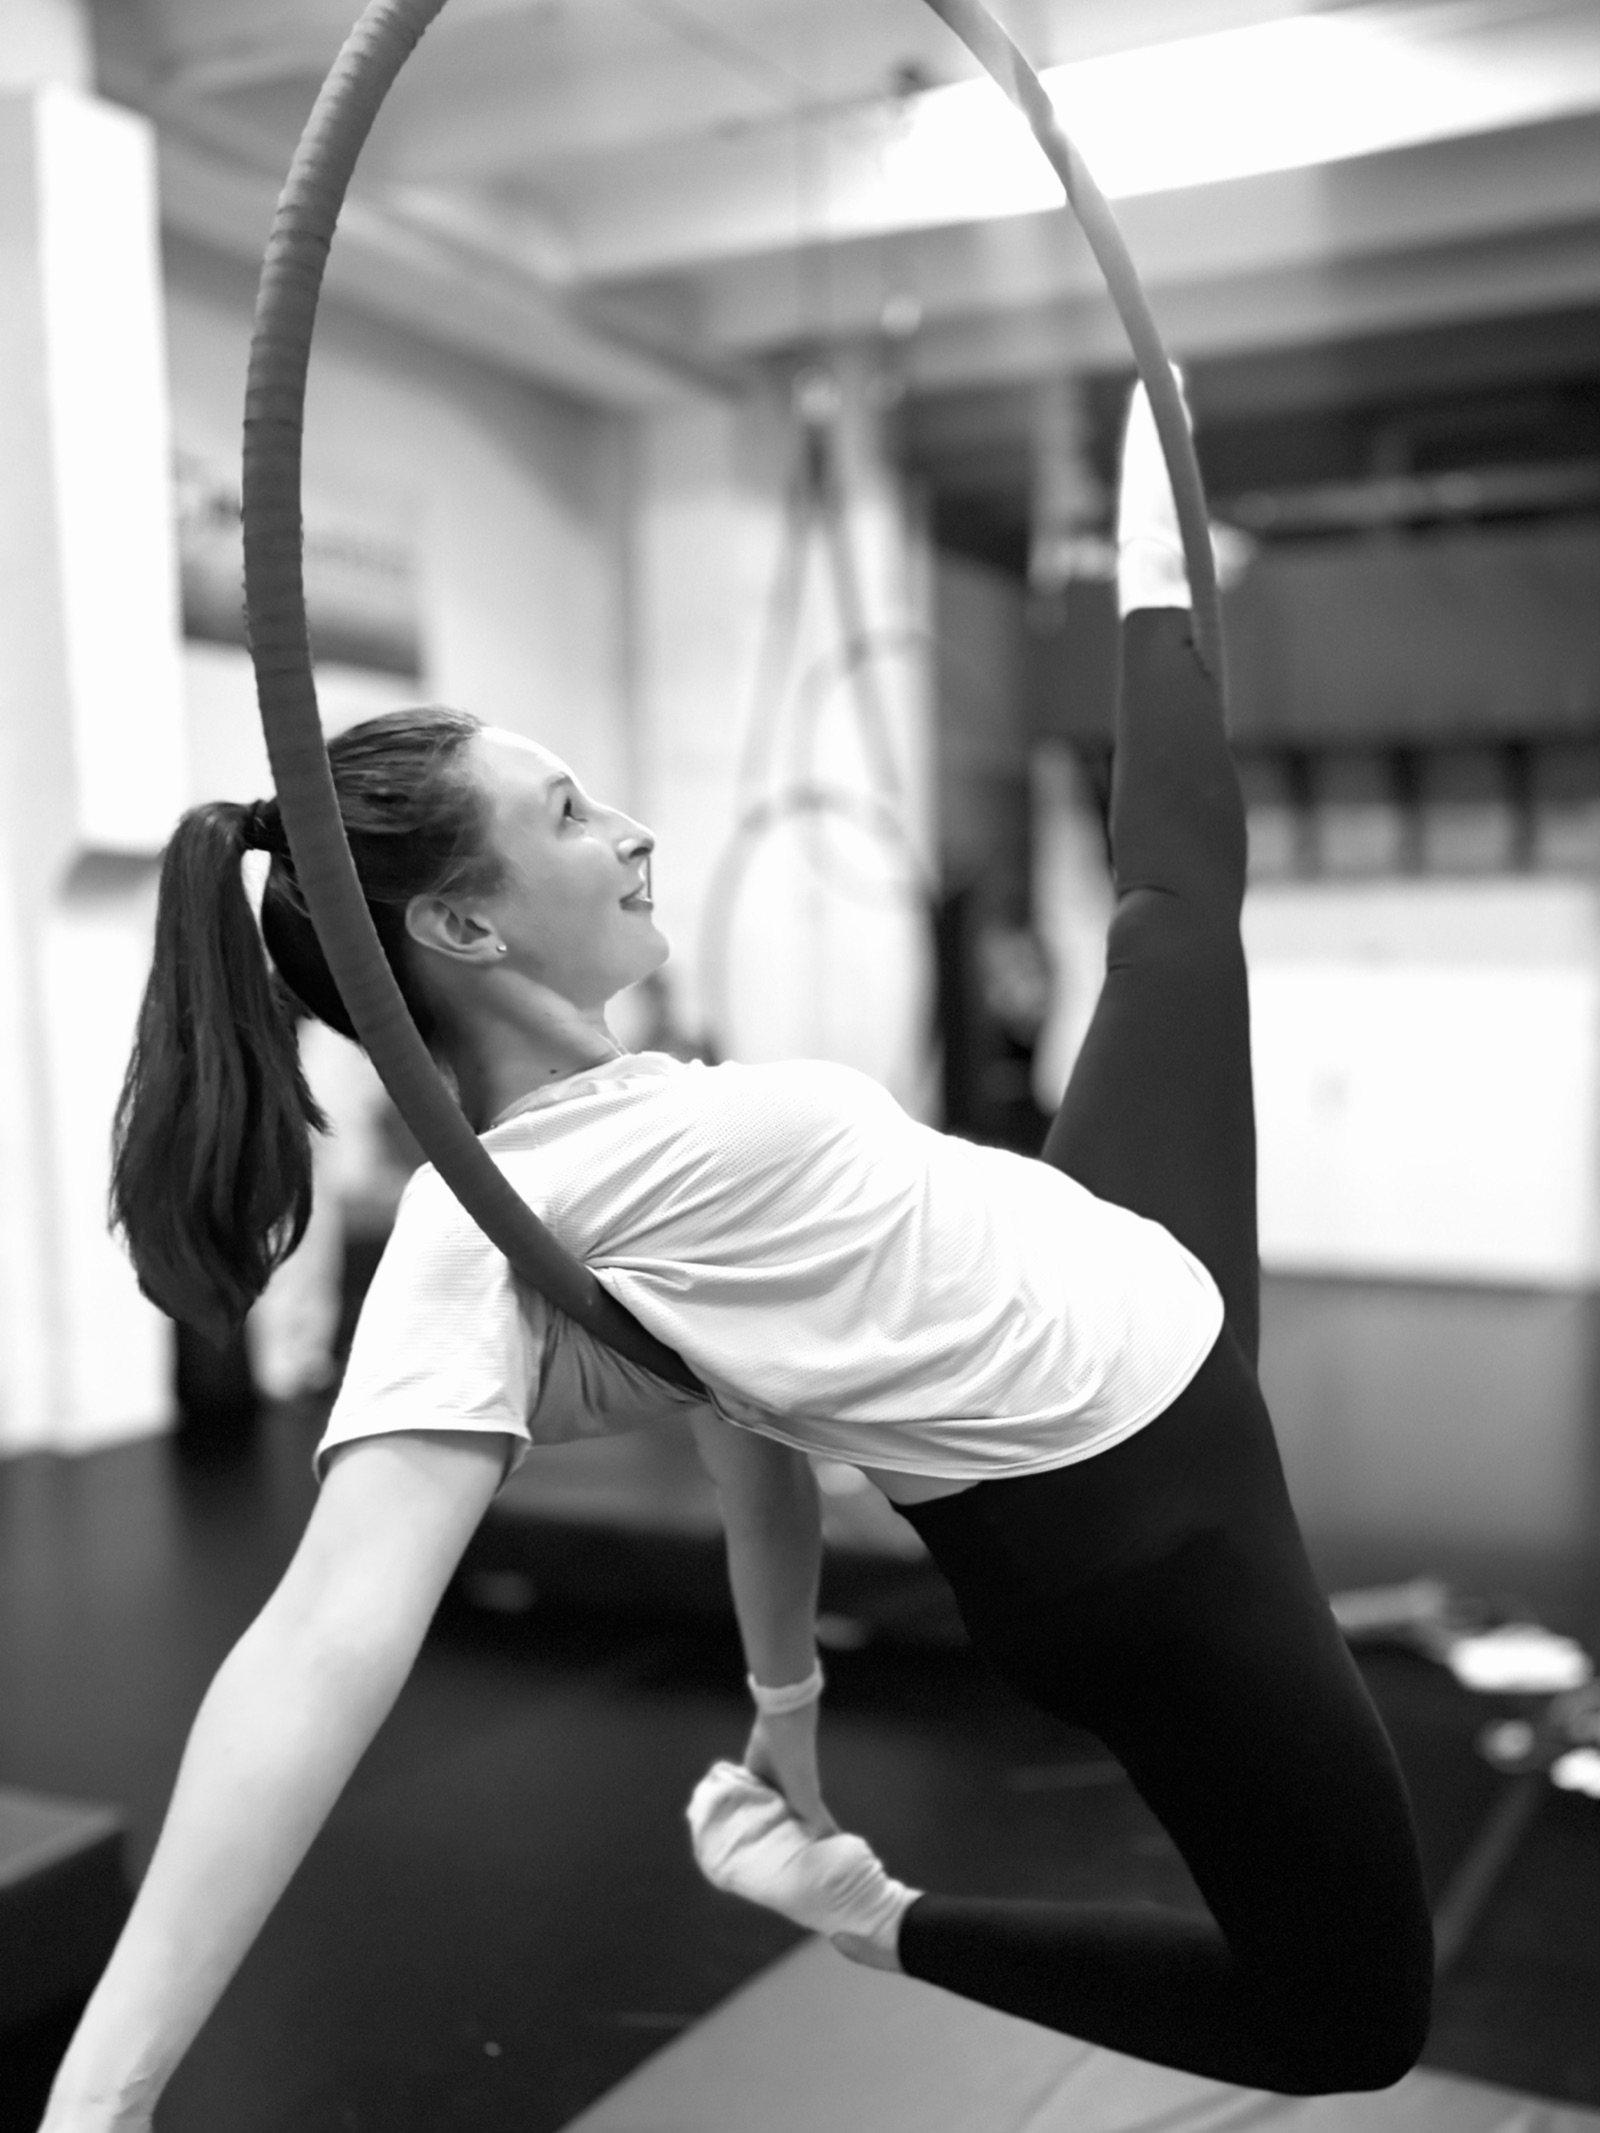
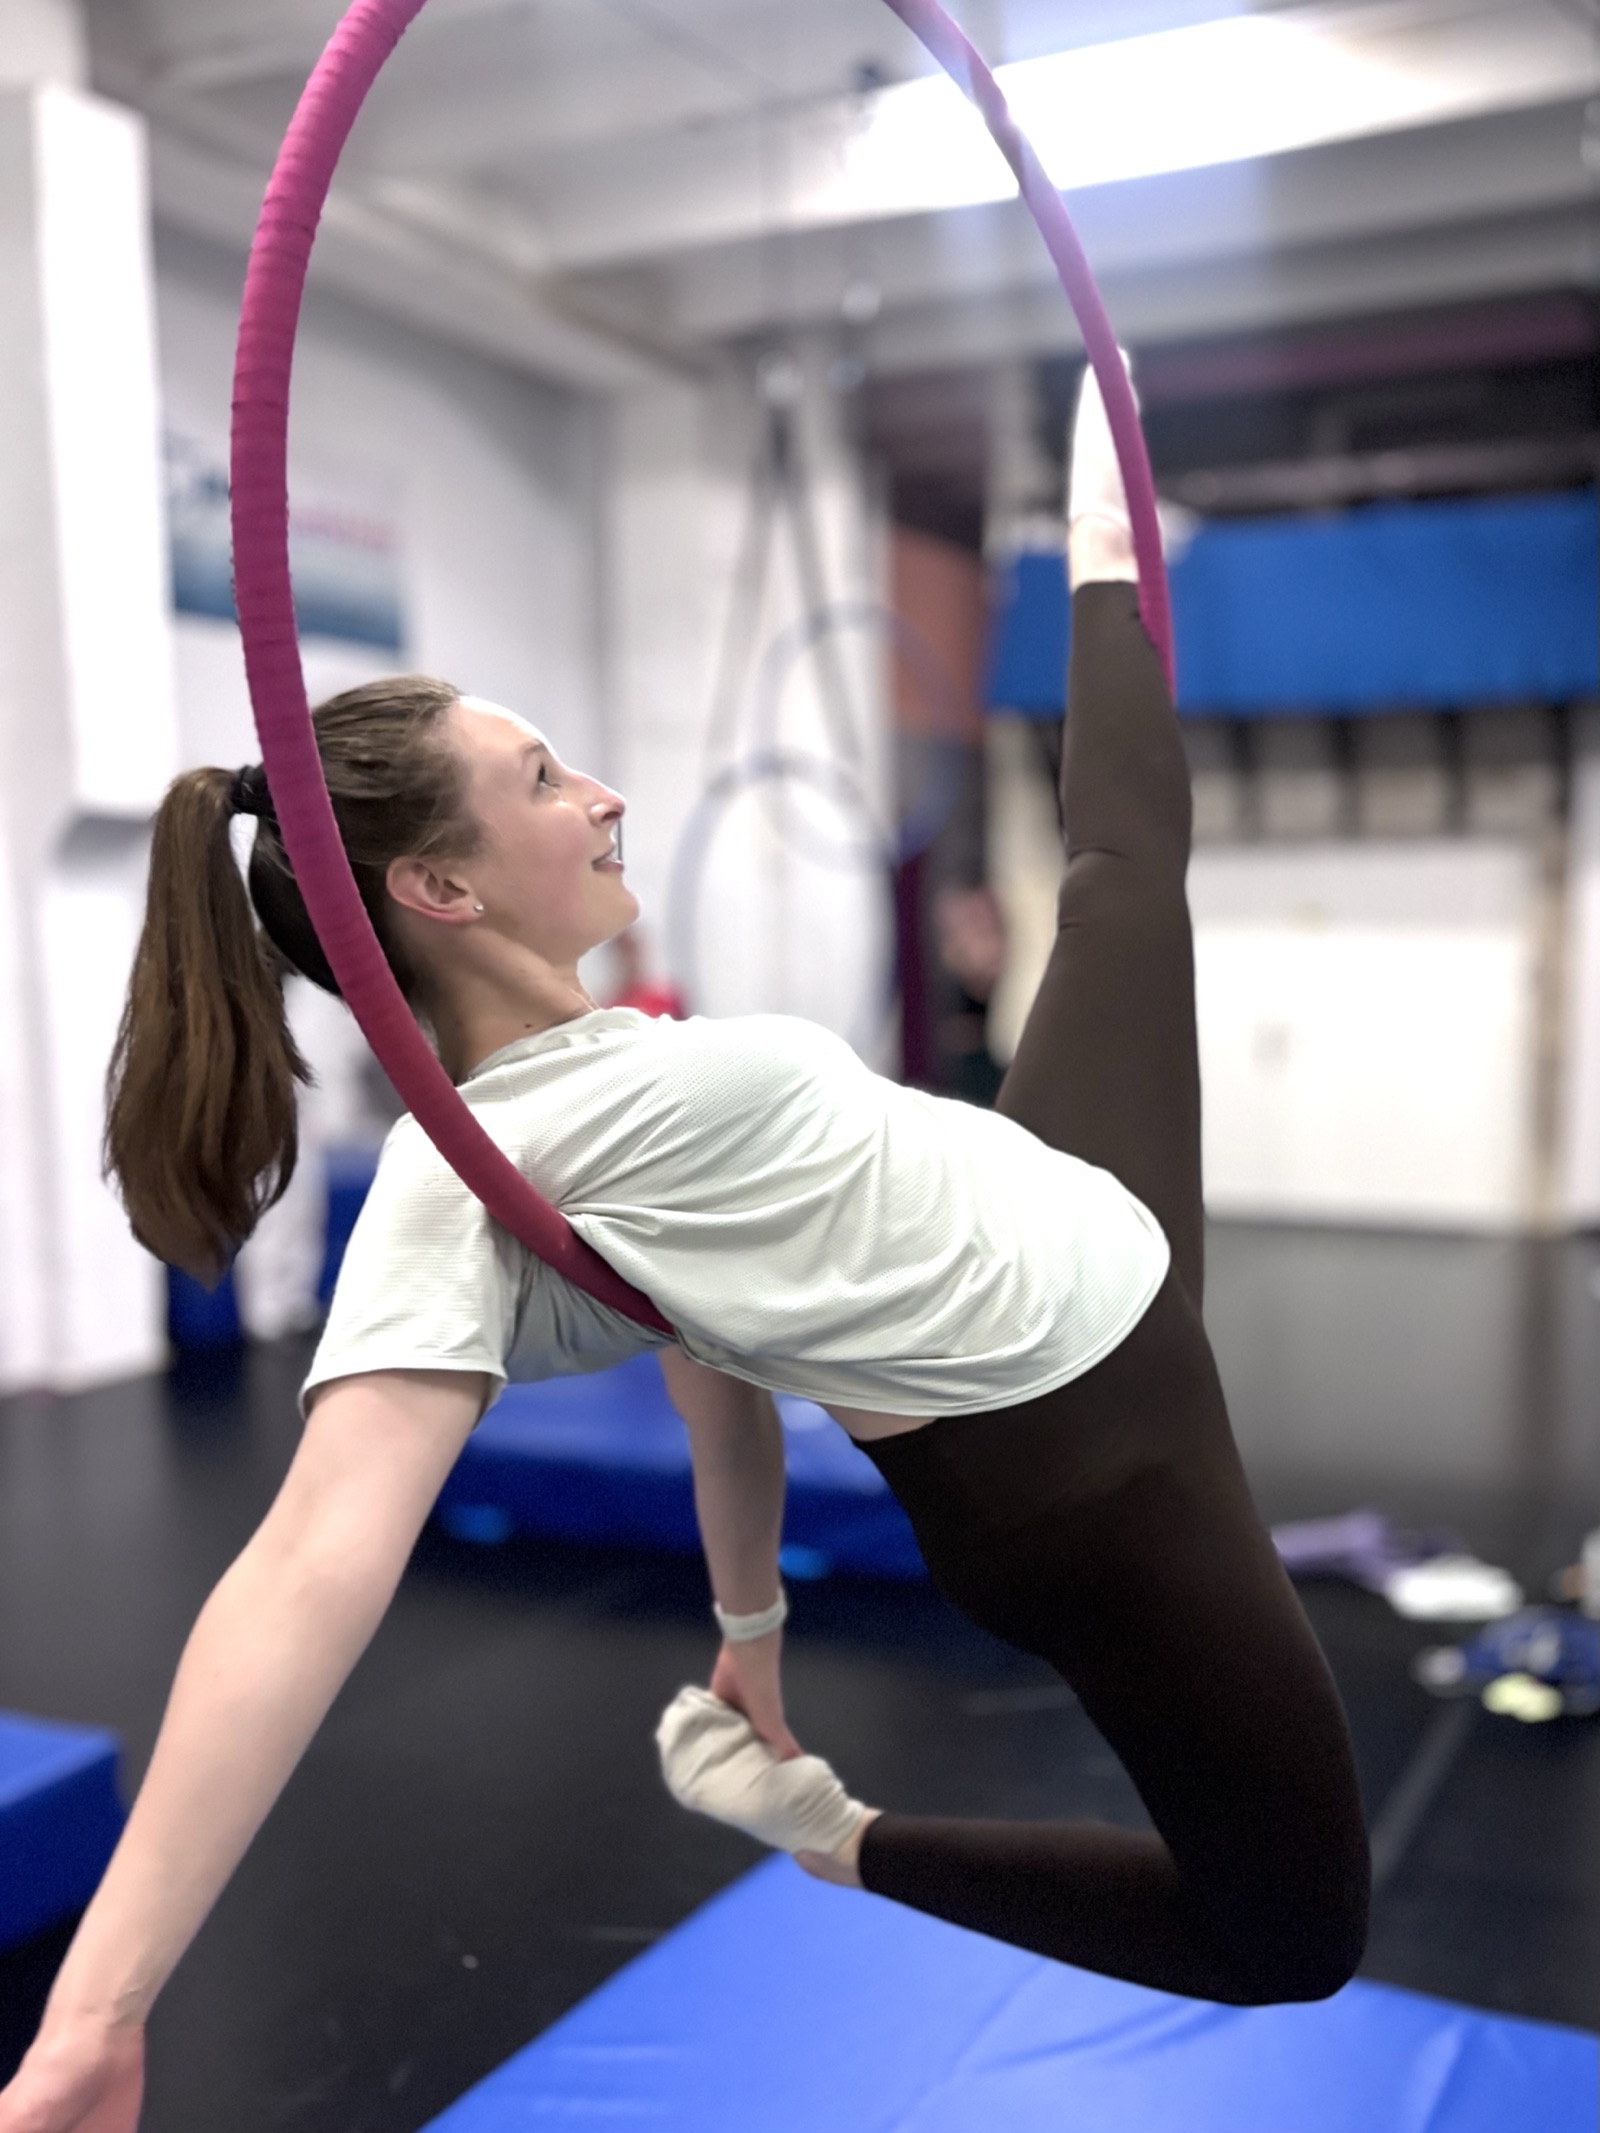
About: use the aerial photo for the free-time chapter
Swap the chapter 3 image from Yoshi to the color aerial-hoop shot (normal
orientation, resized), label "at aerial class". Yoshi stays in the text
with its tooltip. Cache-bust the image to ?v=5.

diff --git a/index.html b/index.html
@@ -29,7 +29,7 @@
   <!-- Wall of Fame route fonts -->
   <link rel="stylesheet" href="https://fonts.googleapis.com/css2?family=Archivo:wght@600;900&family=Libre+Caslon+Text:ital@1&family=Space+Mono:wght@400;700&display=swap" />
   <link rel="stylesheet" href="css/shared.css?v=2026-06-13-19" />
-  <link rel="stylesheet" href="css/v1.css?v=2026-06-14-5" />
+  <link rel="stylesheet" href="css/v1.css?v=2026-06-14-6" />
   <link rel="stylesheet" href="css/wip.css?v=2026-06-12-3" />
   <link rel="stylesheet" href="css/wall-of-fame.css?v=2026-06-12-7" />
 </head>
@@ -238,7 +238,7 @@
                   <span class="ahs-img-label">with Don Norman</span>
                 </div>
                 <div class="ahs-img" data-step="2">
-                  <span class="ahs-img-label">it's-a-me ...and Yoshi</span>
+                  <span class="ahs-img-label">at aerial class</span>
                 </div>
               </div>
 

diff --git a/css/v1.css b/css/v1.css
@@ -1031,7 +1031,7 @@
 }
 [data-variation="v1"] .ahs-img[data-step="2"] {
   background:
-    url("../images/about/yoshi.jpeg?v=3") center / cover no-repeat,
+    url("../images/about/aerial-yoga.jpeg?v=5") center / cover no-repeat,
     repeating-linear-gradient(90deg, color-mix(in oklab, var(--accent) 11%, var(--paper-2)) 0 1px, transparent 1px 16px);
 }
 [data-variation="v1"] .ahs-img[data-step="3"] {
